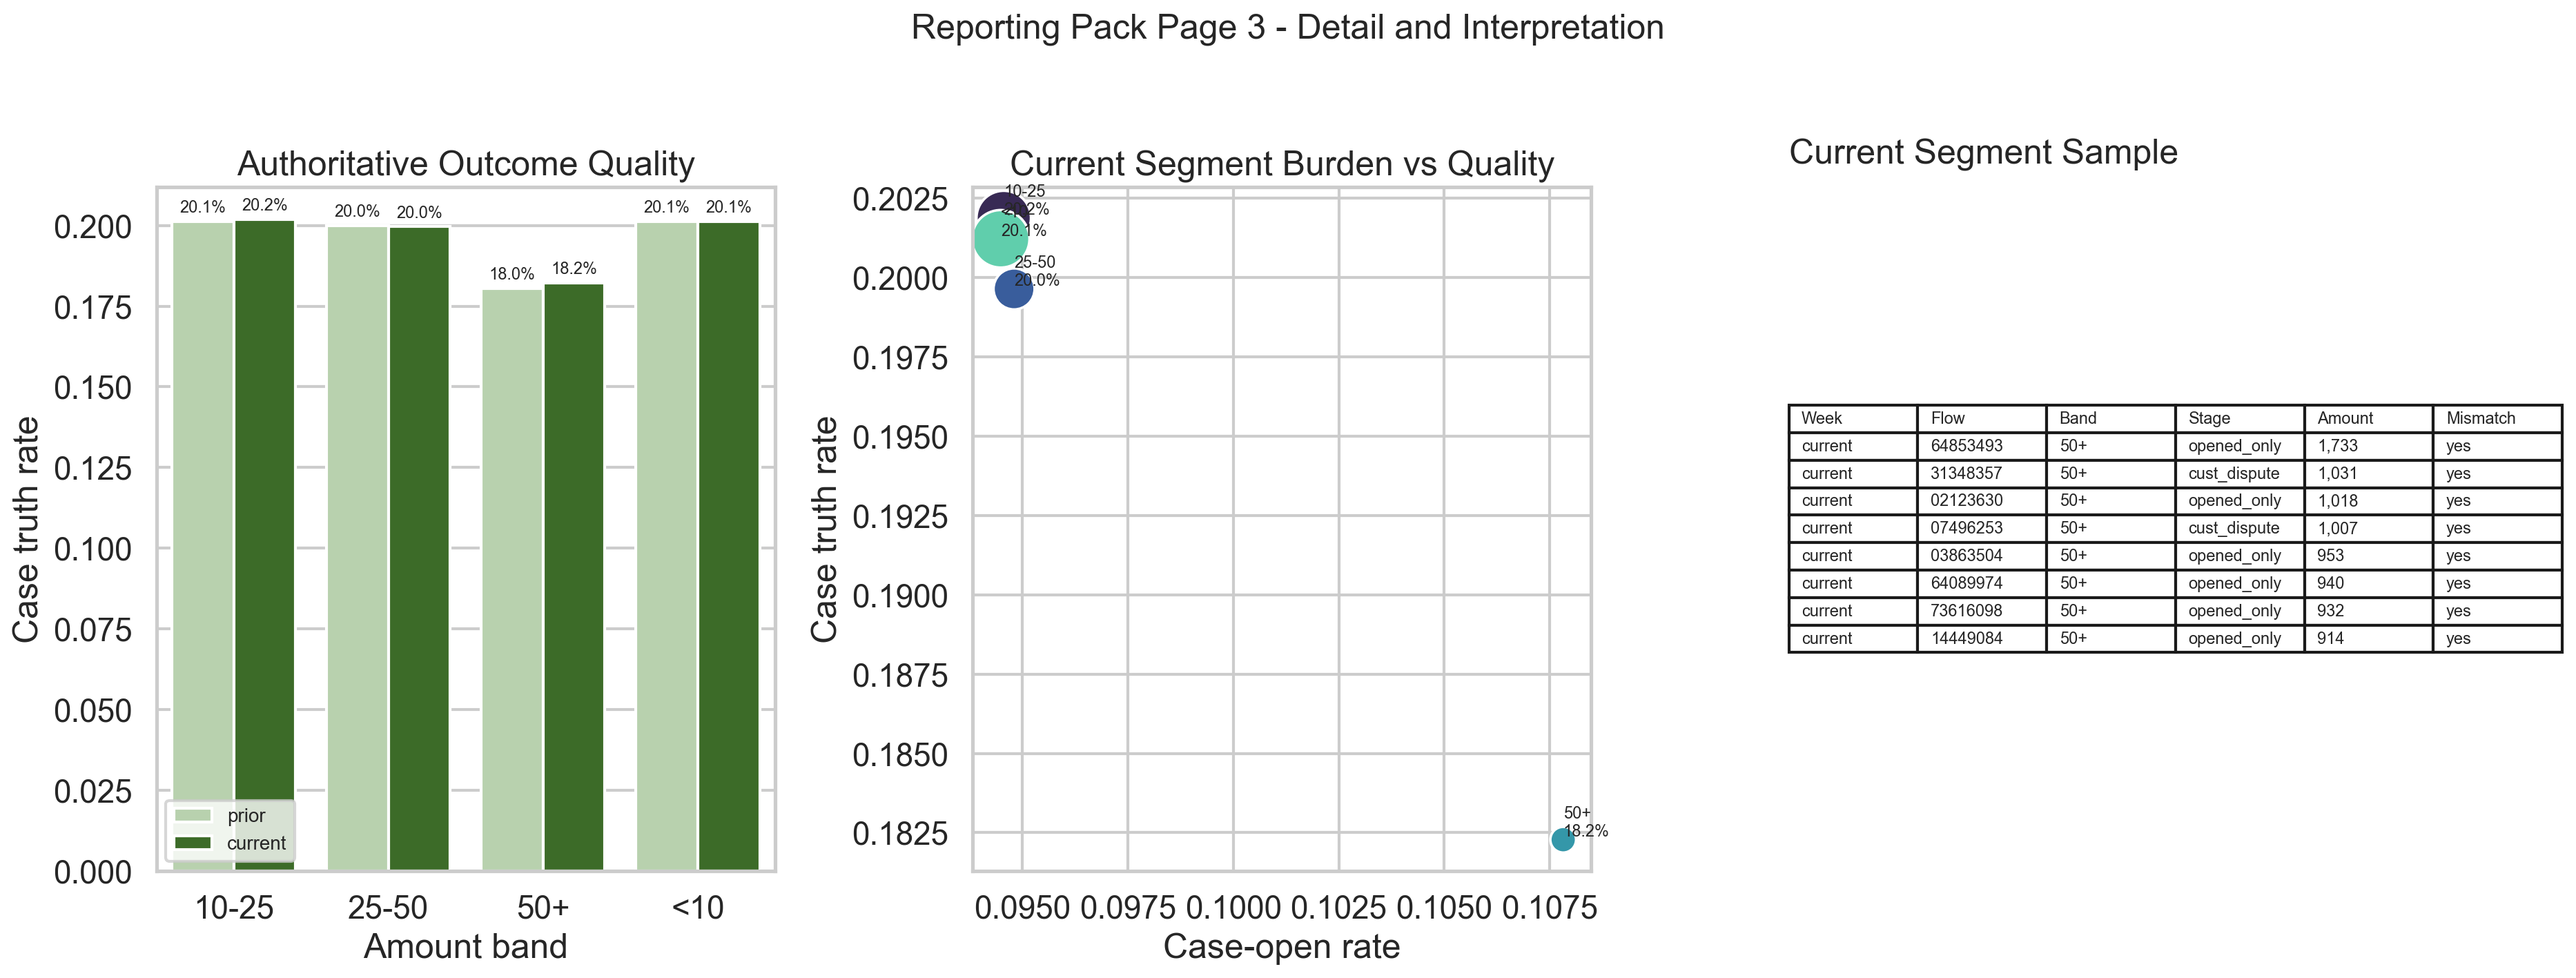
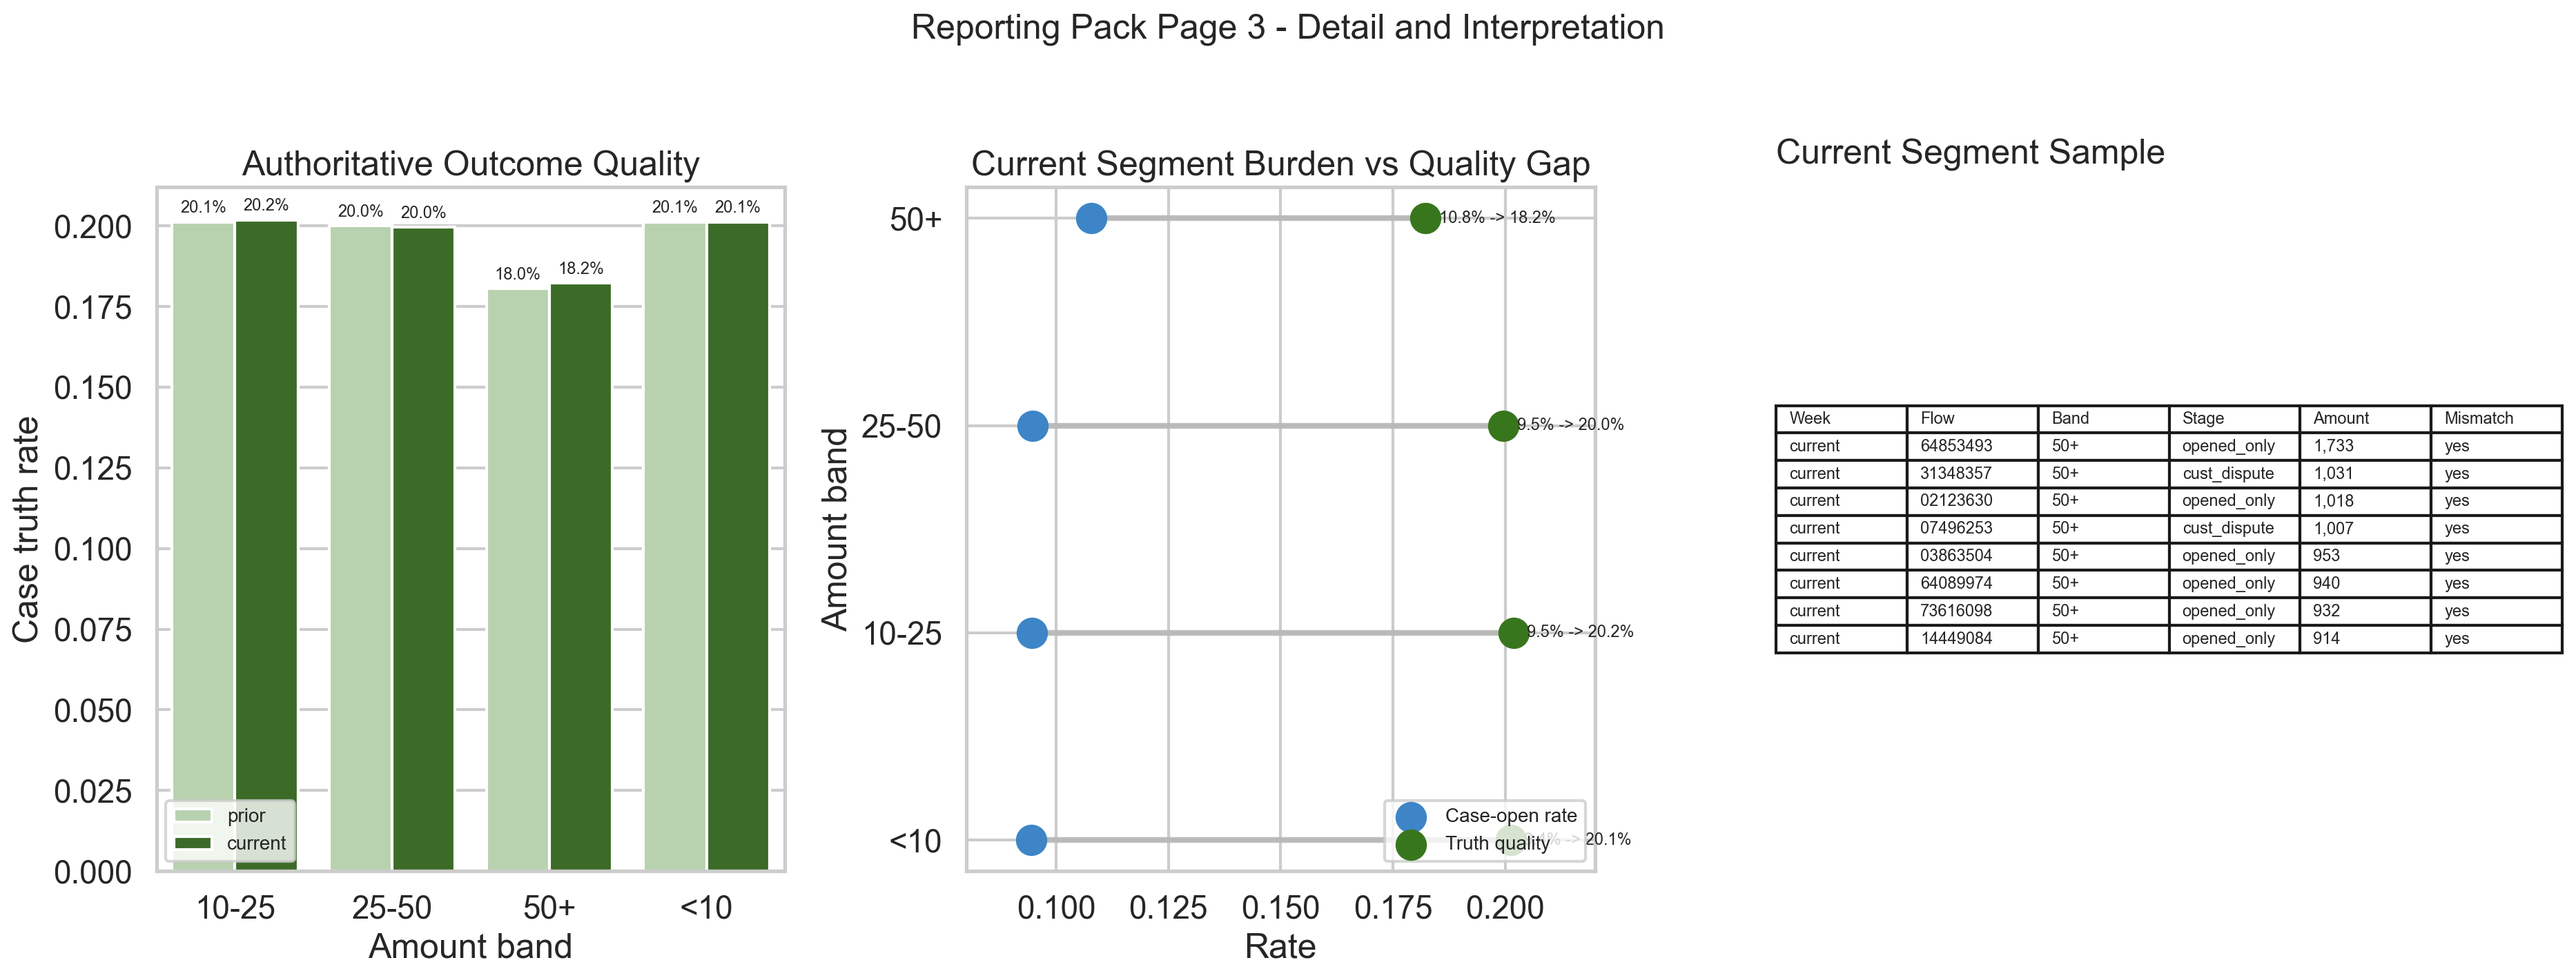
Enhance service performance visualization by updating scatter plot to a gap analysis format, improving clarity in the execution report and refining language for better decision support.

diff --git a/artefacts/analytics_slices/data_analyst/huc/01_multi_source_service_performance/models/build_service_line_performance.py b/artefacts/analytics_slices/data_analyst/huc/01_multi_source_service_performance/models/build_service_line_performance.py
@@ -573,23 +573,49 @@ def main() -> None:
     for container in axes[0].containers:
         axes[0].bar_label(container, labels=[short_pct(v) for v in container.datavalues], padding=3, fontsize=8.5)
 
-    scatter_df = current_segments.copy()
-    sns.scatterplot(
-        data=scatter_df,
-        x="case_open_rate",
-        y="case_truth_rate",
-        size="flow_rows",
-        hue="amount_band_short",
-        sizes=(180, 900),
-        palette="mako",
-        legend=False,
-        ax=axes[1],
+    gap_df = current_segments.copy()
+    gap_df = gap_df.sort_values("case_open_rate", ascending=True).reset_index(drop=True)
+    y_positions = list(range(len(gap_df)))
+    axes[1].hlines(
+        y=y_positions,
+        xmin=gap_df["case_open_rate"],
+        xmax=gap_df["case_truth_rate"],
+        color="#b7b7b7",
+        linewidth=3,
+        alpha=0.9,
     )
-    axes[1].set_title("Current Segment Burden vs Quality")
-    axes[1].set_xlabel("Case-open rate")
-    axes[1].set_ylabel("Case truth rate")
-    for _, row in scatter_df.iterrows():
-        axes[1].text(row["case_open_rate"], row["case_truth_rate"], f"{row['amount_band_short']}\n{short_pct(float(row['case_truth_rate']))}", fontsize=8.5, ha="left", va="bottom")
+    axes[1].scatter(
+        gap_df["case_open_rate"],
+        y_positions,
+        s=220,
+        color="#3d85c6",
+        label="Case-open rate",
+        zorder=3,
+    )
+    axes[1].scatter(
+        gap_df["case_truth_rate"],
+        y_positions,
+        s=220,
+        color="#38761d",
+        label="Truth quality",
+        zorder=3,
+    )
+    axes[1].set_title("Current Segment Burden vs Quality Gap")
+    axes[1].set_xlabel("Rate")
+    axes[1].set_ylabel("Amount band")
+    axes[1].set_yticks(y_positions)
+    axes[1].set_yticklabels(gap_df["amount_band_short"])
+    axes[1].legend(title="", loc="lower right", fontsize=10)
+    axes[1].set_xlim(0.08, 0.22)
+    for idx, row in gap_df.iterrows():
+        axes[1].text(
+            float(row["case_truth_rate"]) + 0.003,
+            idx,
+            f"{short_pct(float(row['case_open_rate']))} -> {short_pct(float(row['case_truth_rate']))}",
+            fontsize=8.5,
+            va="center",
+            ha="left",
+        )
 
     sample_df["flow_id"] = sample_df["flow_id"].str[-8:]
     sample_df["amount"] = sample_df["amount"].map(lambda v: f"{v:,.0f}")

diff --git a/docs/experience_lake/outward-facing-assets/analytics-role-lenses/data_analyst/huc/01_multi_source_service_performance/execution_report.md b/docs/experience_lake/outward-facing-assets/analytics-role-lenses/data_analyst/huc/01_multi_source_service_performance/execution_report.md
@@ -320,18 +320,18 @@ The requirement asks for someone who can:
 - use the combined view to measure service performance and support decisions
 
 The claim therefore needs to answer back in evidence form:
-- I have brought multiple operational datasets together for one service-performance purpose
-- I have handled imperfect source data through reconciliation, discrepancy logging, and source-authority rules
-- I have turned the combined view into operational and leadership reporting rather than leaving it as technical analysis
+- I have brought multiple operational datasets together for one service-performance purpose rather than analysing them in isolation
+- I have handled imperfect source data through reconciliation, discrepancy logging, and explicit source-authority rules rather than assuming one surface was already safe to trust
+- I have used the combined view to measure service performance and support decisions through stable KPI logic and reporting outputs rather than leaving it as technical analysis only
 
 ### 10.1 Flagship `X by Y by Z` claim
 
-> Improved service-line performance visibility and decision support, as measured by successful integration of `4` operational source families into one governed performance slice, zero multi-case linkage defects across `36.9M` bounded merged rows, and consistent reuse of `4` KPI families across a three-page reporting pack and stakeholder briefing notes, by combining event, flow, case, and outcome data into a unified current-versus-prior service-line review, validating discrepancy and source-authority rules, and translating the results into executive, workflow, and drill-through reporting outputs.
+> Brought multiple operational datasets together for one unified service-performance purpose, as measured by successful integration of `4` governed source families into a bounded current-versus-prior review, zero multi-case linkage defects across `36.9M` merged rows, and consistent reuse of `4` KPI families across executive, workflow, and drill-through reporting outputs, by combining event, flow, case, and outcome data, working through imperfect source disagreement with reconciliation and source-authority rules, and packaging the results into operational and leadership decision-support reporting.
 
 ### 10.2 Shorter recruiter-facing version
 
-> Integrated multiple operational data sources into one trusted service-performance slice, as measured by validated source consistency, reusable KPI logic, and delivery of executive and operational reporting outputs, by combining, checking, and interpreting governed workflow and outcome data for decision support.
+> Integrated multiple operational data sources into one trusted service-performance slice, as measured by validated source consistency, reusable KPI logic, and delivery of executive and operational reporting outputs, by combining, checking, and interpreting imperfect workflow and outcome data for decision support.
 
 ### 10.3 Closer direct-response version
 
-> Brought multiple operational datasets together for a unified service-performance purpose, as measured by reconciled multi-source views, stable KPI definitions, and reporting outputs used to track trends and support decisions, by combining imperfect source data, checking consistency, and packaging the results into operational and leadership reporting.
+> Analysed data from multiple operational sources for a unified service-performance purpose, as measured by reconciled multi-source views, stable KPI definitions, and reporting outputs used to track trends and support decisions, by combining imperfect source data, checking consistency, and turning the result into operational and leadership reporting.
